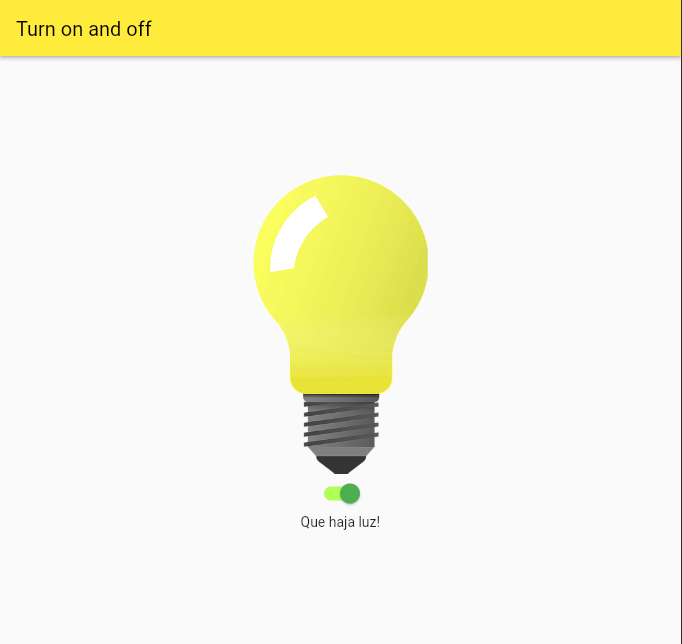
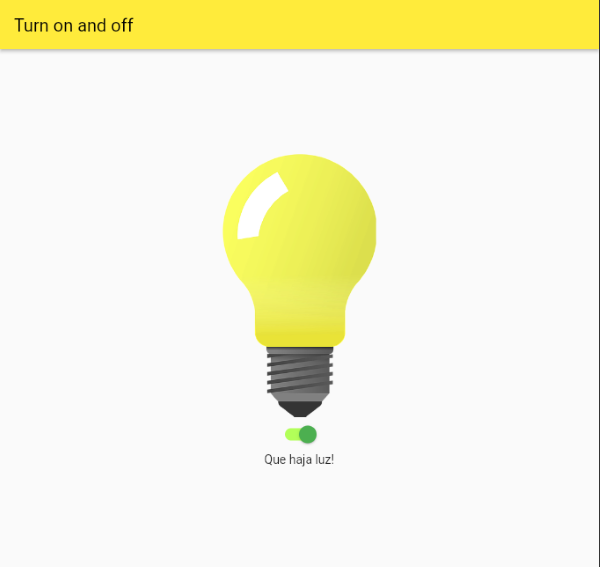
ajeitando atividade 4

Changed region(s): [[0.99, 0.0, 1.0, 1.0], [0.03, 0.03, 0.21, 0.06], [0.48, 0.8095, 0.51, 0.8395]]

diff --git a/atividade12/README.md b/atividade12/README.md
@@ -1,5 +1,13 @@
-# Lista de questões
+<h1>Lista de questões</h1>
 
-## [Questão 4](https://github.com/MariaAlice00/ifpi-ads-programacao-para-dispositivos-moveis/tree/main/atividade12/turn_on_off)
-![](assets/04-off.png)
-![](assets/04-on.png)
+<ul>
+    <li>
+       <p>
+           <a href="https://github.com/MariaAlice00/ifpi-ads-programacao-para-dispositivos-moveis/tree/main/atividade12/turn_on_off">Questão 4</a>
+       </p>
+        <p float="left">
+            <img src="assets/04-off.png" width="100" alt="">
+            <img src="assets/04-on.png" width="100" alt="">
+        </p>
+    </li>
+</ul>
